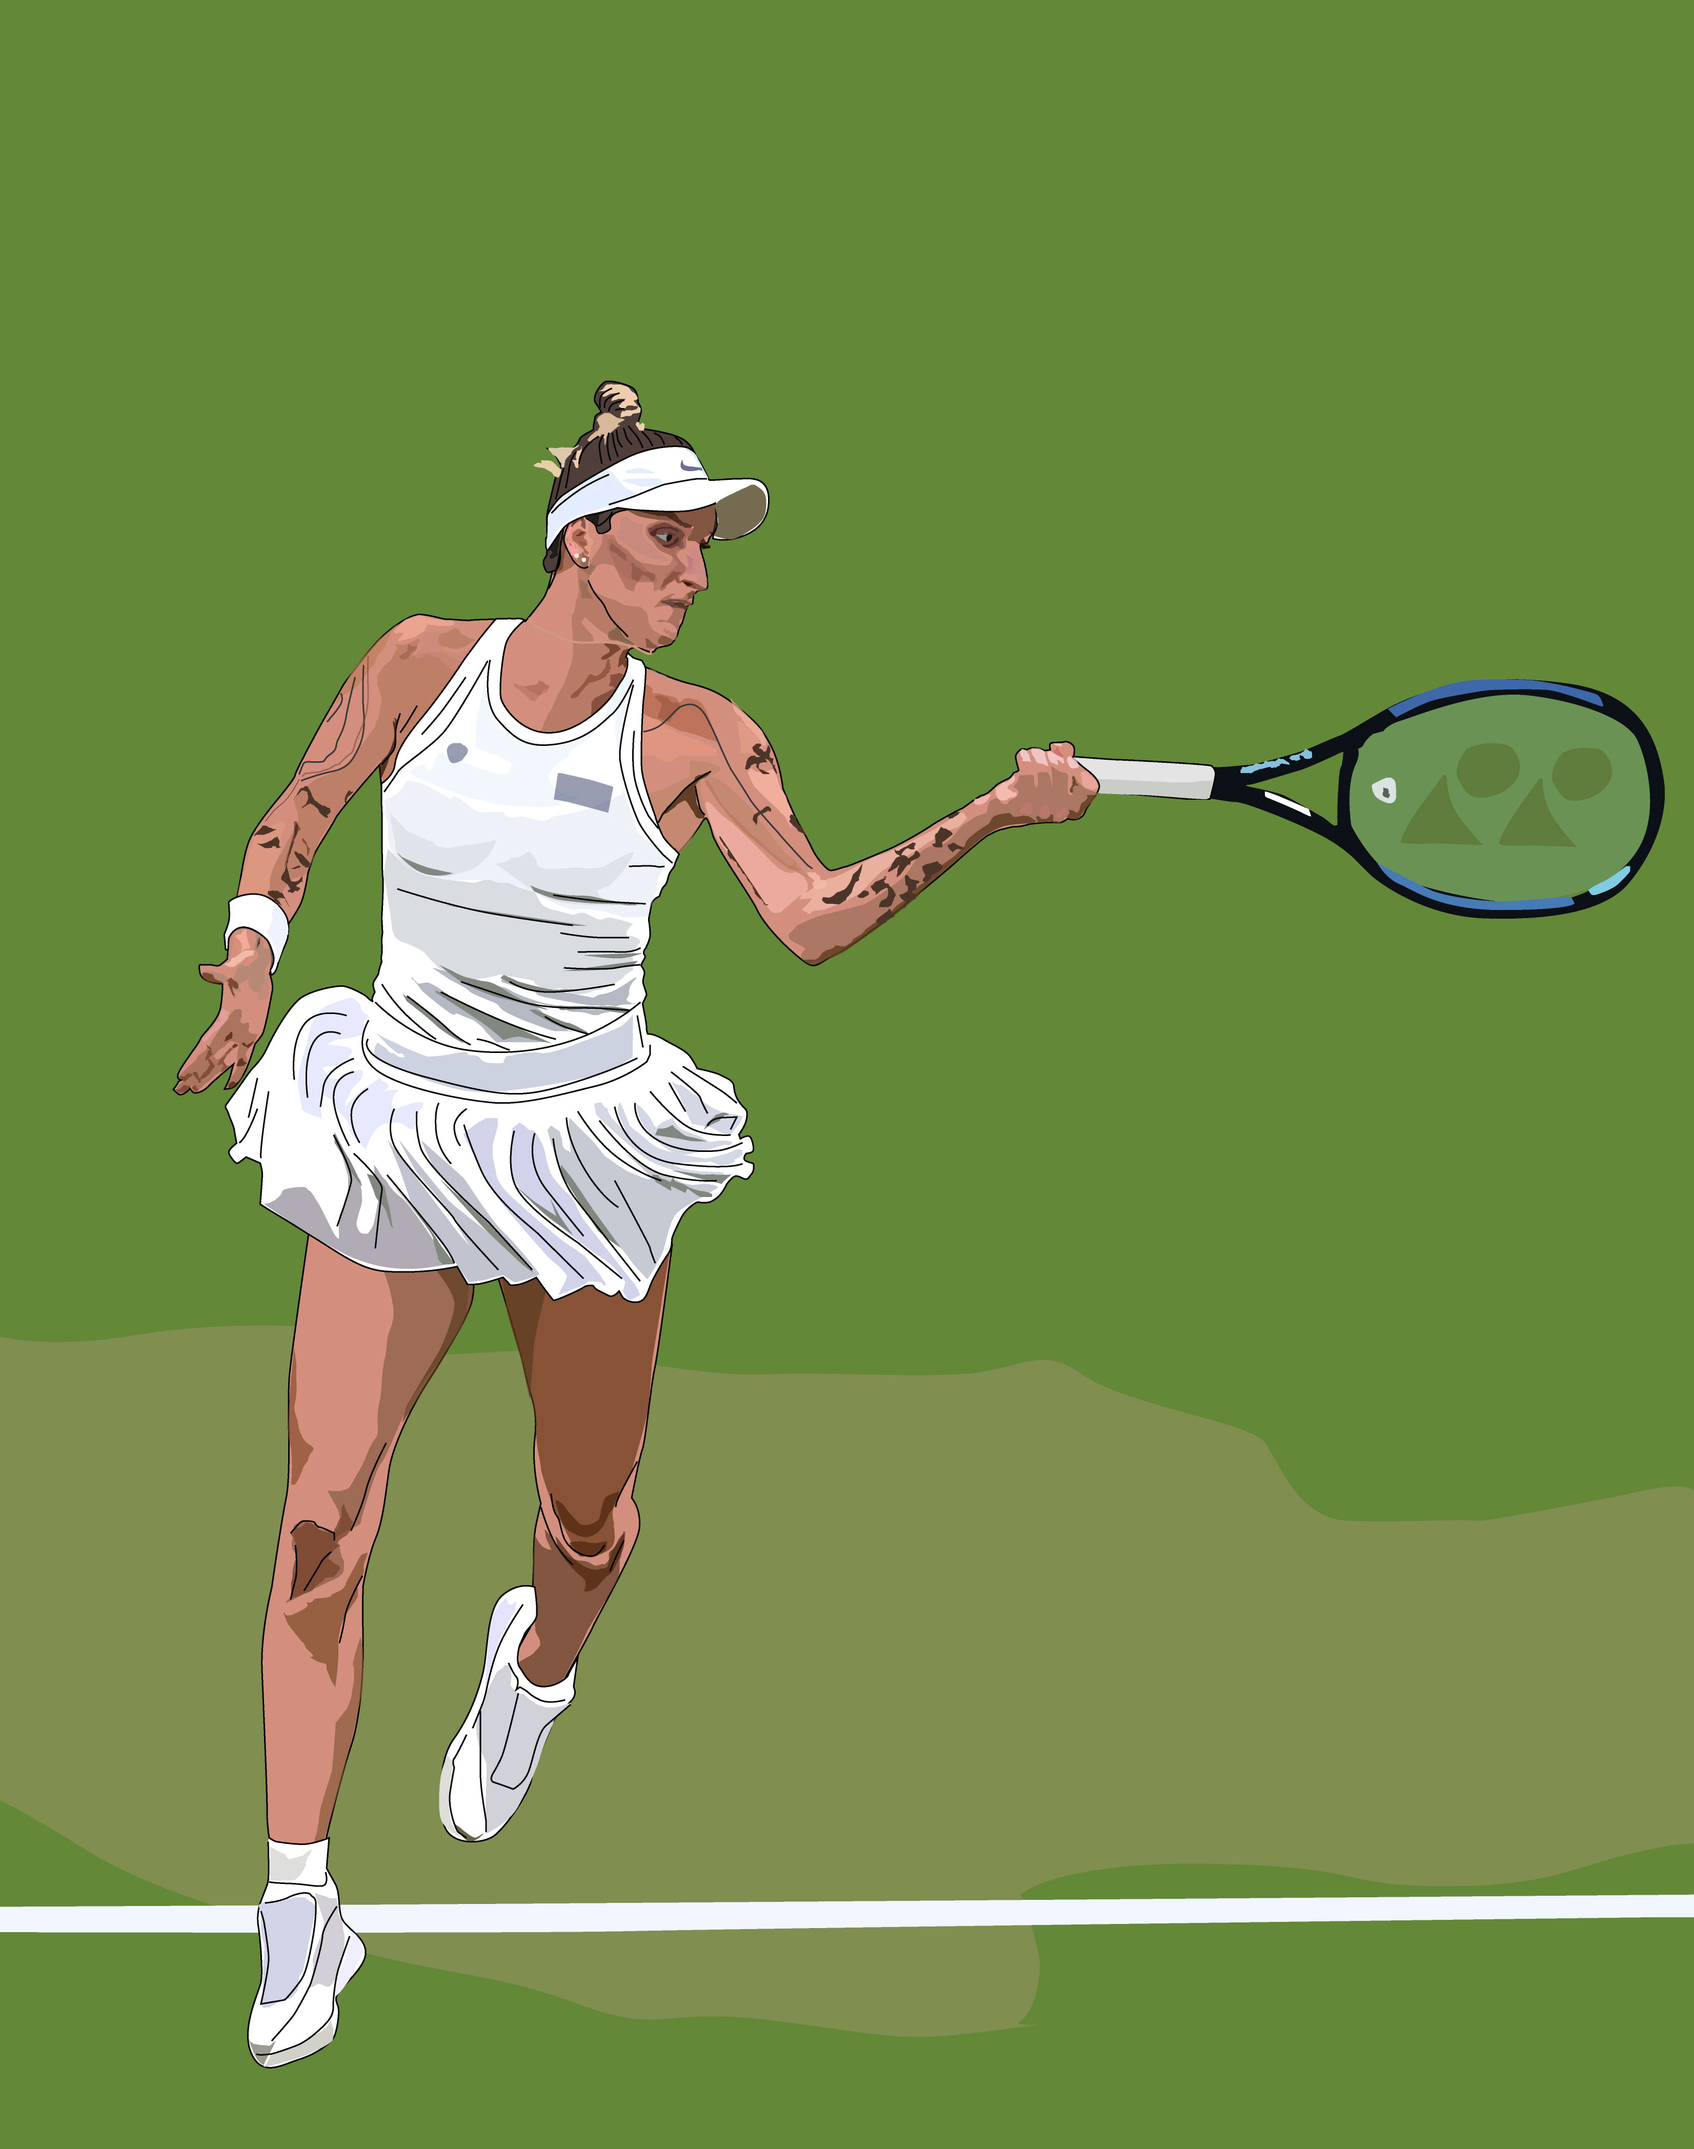
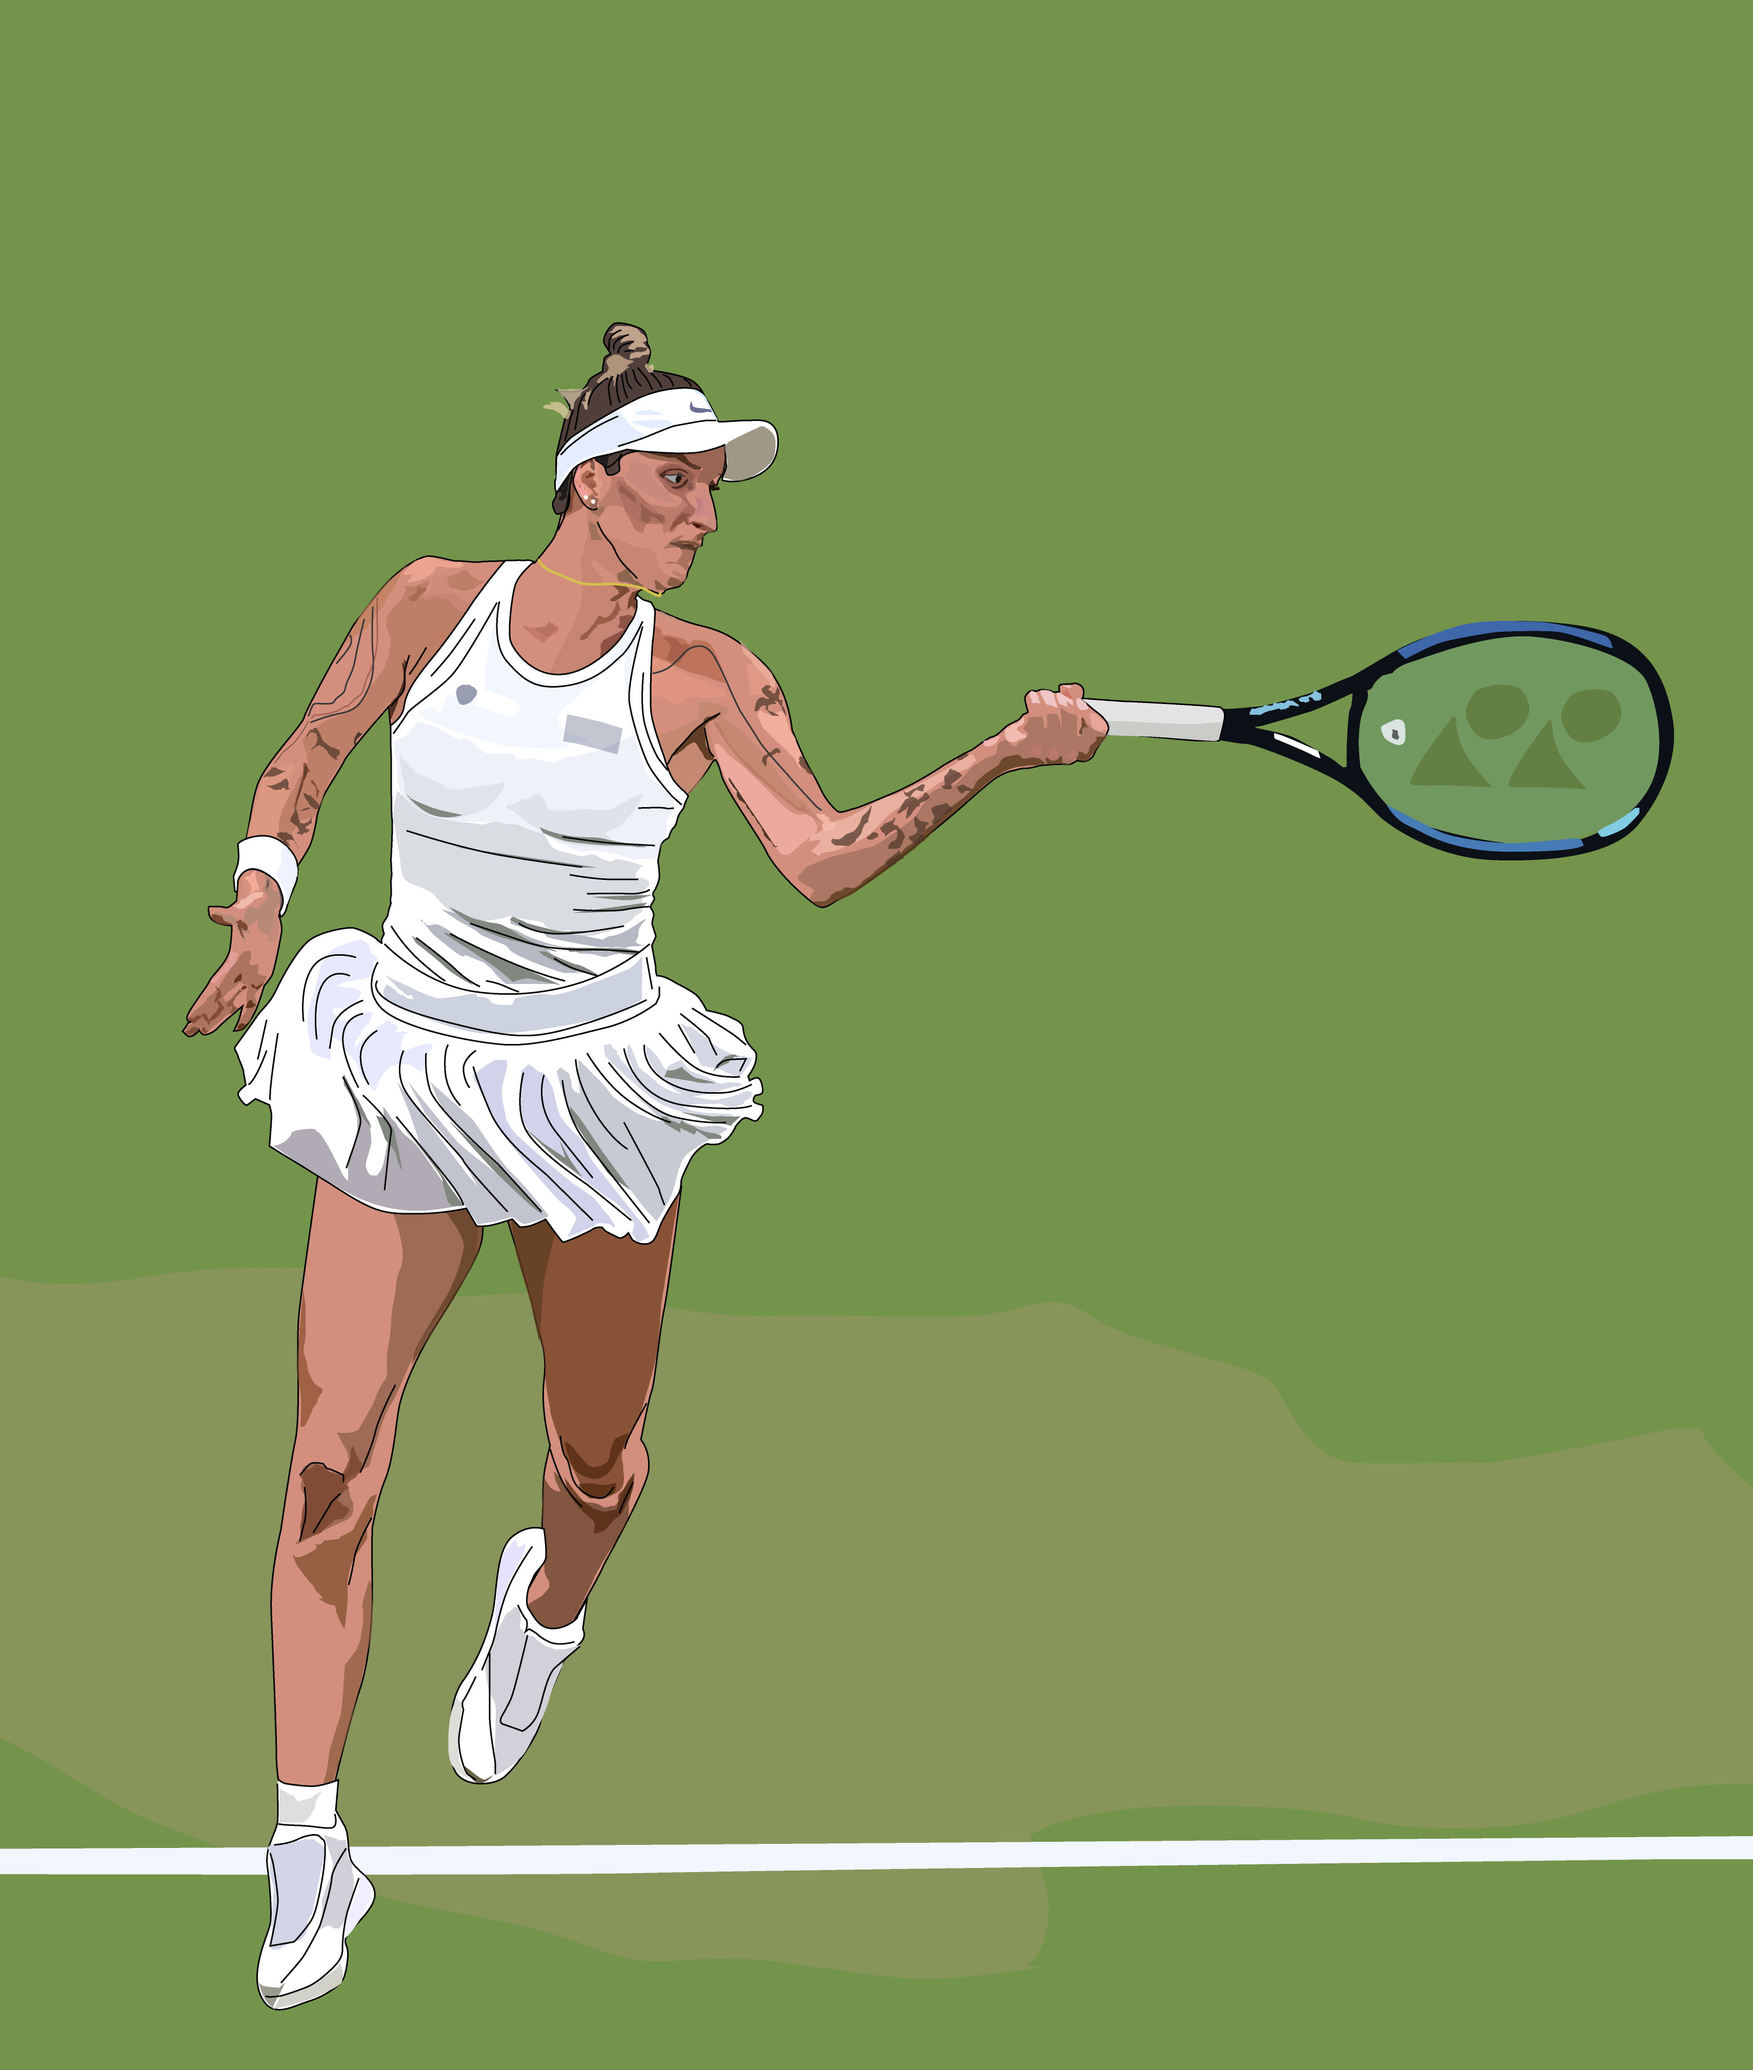
Add files via upload

Changed region(s): [[0.0, 0.1561, 1.0, 0.9676], [0.3429, 0.9363, 0.5923, 0.9676], [0.8729, 0.6866, 0.9664, 0.7179]]

diff --git a/2.html b/2.html
@@ -1,37 +1,60 @@
 <!doctype html>
 <html>
 <head>
-    <title>SOUL FACTORY</title>
-    <meta charset="utf-8">
+<title>SOUL FACTORY</title>
+<meta charset="utf-8">
 </head>
 <body>
-    <h1><a href="index.html">SOUL fACTORY</a></h1>
-    <ol>
+<h1><a href="index.html">SOUL fACTORY</a></h1>
+<ol>
 <p>        
-    <li><a href="1.html">SOUL TENNIS PROJECT</a></li>
+<li><a href="1.html">SOUL TENNIS PROJECT</a></li>
 </p>
 <p><li><a href="2.html">TENNIS STORY</a></li>
-    </p>
-    <p> <li><a href="3.html">TENNIS SINGLE</a></li>
-    </p>
-    </ol>
+</p>
+<p> <li><a href="3.html">TENNIS SINGLE</a></li>
+</p>
+</ol>
 <h2>TENNIS STORY</h2>
 <h3>WIMBLDON</h3>
 <p>
-    <strong>23 Champion Woman - <u>Vondroušová, Markéta</u></strong>
+    <strong>23 Champion Man - <u>Carlos Alcaraz</u></strong>
+</p>
+<img src="결승사진.gif" width="80%">
+<p>
+    <p>
+        7월16일 오후10시 윔블던 결승  노박조코비치 VS 카를로스 알카라스의 경기가 있습니다. 
+        두 선수의 리턴매치. 
+    </p>
+<br>
+<br>
+<br>    
+<strong>23 Champion Woman - <u>Vondroušová, Markéta</u></strong>
 </p>
 <P>
-    <img src="본드루소바.jpg" width="90%">
+<img src="본드루소바.jpg" width="80%">
 </P>
 <p>윔블던이 막바지입니다. 어제는 여자 결승이 있었는데 누구의 예상에도 없었던 랭킹42위의 <u>마르케타 본드루소바</u>. 24세 키172cm 체코출신의 선수. 특징 팔에 장난스러운 문신 ^^
     자베르 윔블던에서 강한 선수인데 본드루소바에게 초반에는 쉽게 이길것 같은 분위기에서 3번째 본드루소바의 서브게임을 브레이크 할것같은 분위기를 이겨내지 못하고 말리기 시작 결국 분위기를 제대로 탄 본드루소바의 승리로
     윔블던에 새로운 주인공이 탄생했습니다. 본드루소바 축하합니다!!!
 </p>이미지 출처 게티이미지
+
 <p>
-    <iframe width="560" height="315" src="https://www.youtube.com/embed/3c9n9tXK0GY" title="YouTube video player" frameborder="0" allow="accelerometer; autoplay; clipboard-write; encrypted-media; gyroscope; picture-in-picture; web-share" allowfullscreen></iframe>
+<img src="본드루소바-2.jpg" width="60%">
+</p>이번 우승으로 랭킹이 수직상승하겠네요.
+<p>
+<img src="23우승자.jpg" width="50%">
+</p>23윔블던 우승자 보드루소바를 간단하게 그려봤습니다.
+<p>
+부상에서 복귀하며 의지를 다지기 위해 문신을 새겼다고 들었는데 제가 문신을 제대로 표현 못했네요.
 </p>
+<br>
+<br>
 <p>
-    <img src="ST LOGO.jpg" width="110">
+<iframe width="560" height="315" src="https://www.youtube.com/embed/3c9n9tXK0GY" title="YouTube video player" frameborder="0" allow="accelerometer; autoplay; clipboard-write; encrypted-media; gyroscope; picture-in-picture; web-share" allowfullscreen></iframe>
+</p>결승전 하이라이트 보고 가시죠^^
+<p>
+<img src="ST LOGO.jpg" width="110">
 </p>
 <p><div id="disqus_thread"></div>
     <script>

diff --git a/3.html b/3.html
@@ -5,21 +5,29 @@
     <meta charset="utf-8">
 </head>
 <body>
-    <h1><a href="index.html">SOUL fACTORY</a></h1>
-    <ol>
+<h1><a href="index.html">SOUL fACTORY</a></h1>
+<ol>
 <p>        
-    <li><a href="1.html">SOUL TENNIS PROJECT</a></li>
+<li><a href="1.html">SOUL TENNIS PROJECT</a></li>
 </p>
 <p><li><a href="2.html">TENNIS STORY</a></li>
-    </p>
-    <p> <li><a href="3.html">TENNIS SINGLE</a></li>
-    </p>
-    </ol>
+</p>
+<p> <li><a href="3.html">TENNIS SINGLE</a></li>
+</p>
+</ol>
 <h2>TENNIS SINGLE</h2>
 <h3>단테매 단식테니스매니아카페</h3>
 <a href ="https://cafe.daum.net/singlestennis" target="_blank" title="단테매카페"><img src="단테매로고.jpg" width="100"> </a>
 <p>테니스 단식을 좋아하는 분들을 위한 최고의 테니스 단식 카페. 다양한 지역에서 다양한 분들과 단식을 즐기고 싶다면 꼭 가입하세요. 단식대회 정보도 한눈에 볼 수 있으며 내가 살고 있는 지역에서 가까운 지역모임에서 다양한 플레이어들과 테니스를 더욱 다이내믹하게 즐겨보세요
 </p>
+<h2>Weather</h2>
+테니스인을 위해 꼭 필용한 정보는 바로 날씨죠.
+테니스인들에게 날씨만큼 중요한게 있을까요?
+
+
+<p><a href="https://www.weather.go.kr/w/index.do" target="_blank" title="기상청홈페이지">기상청 날씨누리</a></p>
+ <p><a href="https://www.accuweather.com/" target="_blank" title="아큐웨더">AccuWeather</a></p>
+ <p><a href="https://www.windy.com/ko/-%EB%88%84%EC%A0%81-%EA%B0%95%EC%88%98%EB%9F%89-rainAccu?rainAccu,next3d,37.579,126.975,5,m:eHTajHb" target="_blank" title="윈디">Windy</a></p>
 <p><div id="disqus_thread"></div>
         <script>
             /**

diff --git a/index.html b/index.html
@@ -5,12 +5,16 @@
     <meta charset="utf-8">
 </head>
 <body>
-    <h1><a href="index.html">SOUL fACTORY</a></h1>
-    <ol>
-        <li><a href="1.html">SOUL TENNIS PROJECT</a></li>
-        <li><a href="2.html">TENNIS STORY</a></li>
-        <li><a href="3.html">TENNIS SINGLE</a></li>
-    </ol>
+<h1><a href="index.html">SOUL fACTORY</a></h1>
+<ol>
+<p>        
+<li><a href="1.html">SOUL TENNIS PROJECT</a></li>
+</p>
+<p><li><a href="2.html">TENNIS STORY</a></li>
+</p>
+<p> <li><a href="3.html">TENNIS SINGLE</a></li>
+</p>
+</ol>
 <h2>FACTORY</h2>
 <img src="2.jpg" width="70%">
 <p>
